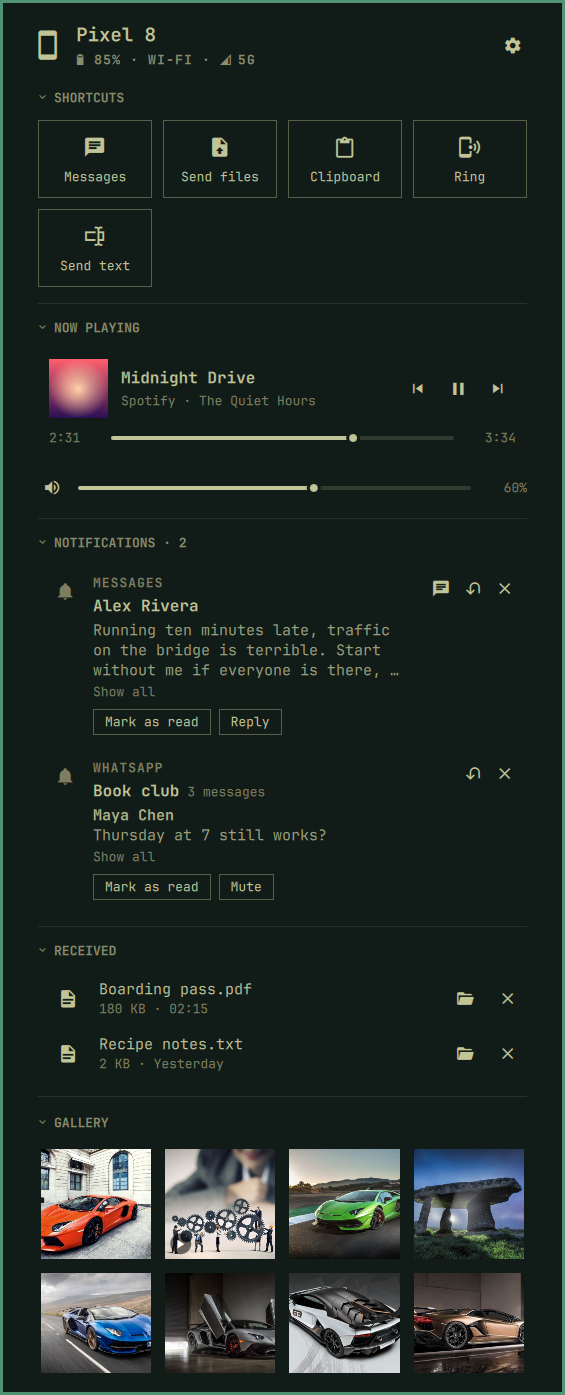
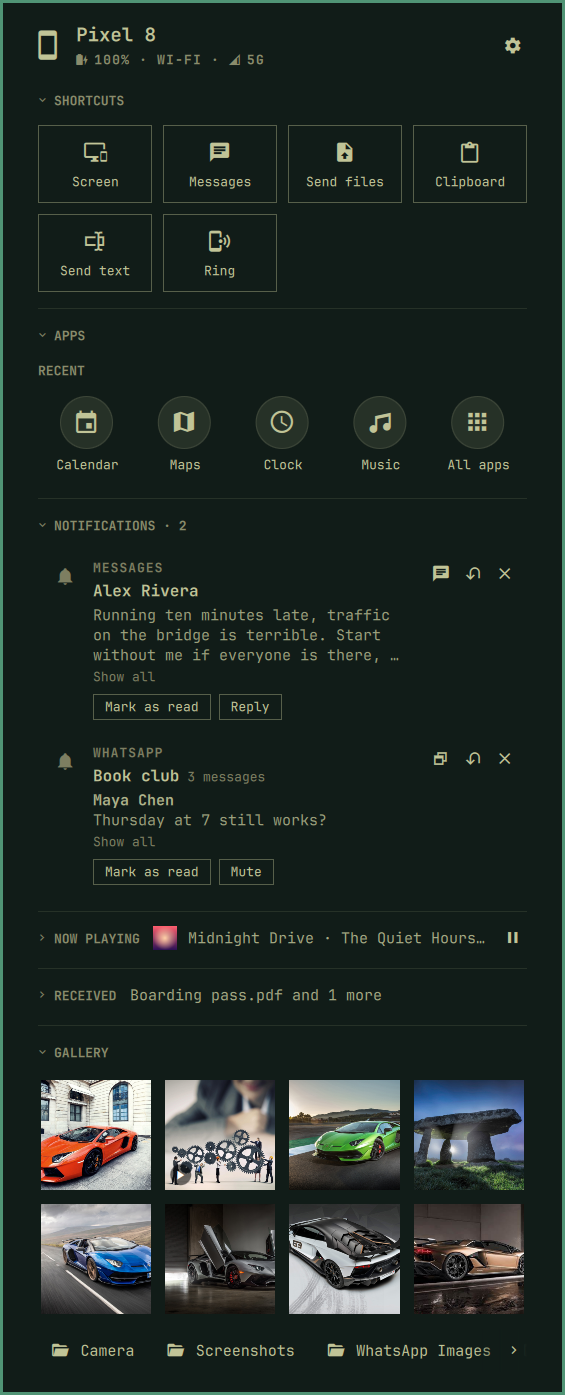
Docs for 0.8: Android, iPhone and iPad named up front; the screen and apps in the README and the preview; one switch per feature and Settings' status in the guide; KDE Connect installed by the panel; Screen and apps only when KDE Connect is lost; How it works on sources, gateways and setup items and

diff --git a/docs/internals/how-it-works.md b/docs/internals/how-it-works.md
@@ -2,12 +2,17 @@
 
 # How it works
 
-KDE Connect is the source of truth: the plugin holds no device state, and
-writes nothing outside its folder but caches in `~/.cache/sceny.devices/`.
+Each source is the truth for its feature: KDE Connect (over D-Bus) for
+notifications, messages, calls, media, files and the rest; scrcpy over adb
+for the screen and apps; KDE Connect's storage over sshfs for the gallery;
+adb for KDE Connect's permissions on the phone. The plugin holds no device
+state, and writes nothing outside its folder but caches in
+`~/.cache/sceny.devices/`. The design is
+[`docs/design/setup.md`](../design/setup.md).
 
 | File | Holds |
 |---|---|
-| `bin/kdeconnect-bridge` | Python over D-Bus (Gio). `watch` prints a JSON snapshot on start, after every KDE Connect signal (debounced 250 ms) and every 30 s. Action verbs (`ring`, `ping`, `clipboard`, `share`, `text`, `url`, `media`, `dismiss`, `reply`, `action`, `dial`) run one call and print one line. `sms` speaks JSON lines. |
+| `bin/kdeconnect-bridge` | Python over D-Bus (Gio). `watch` prints a JSON snapshot on start, after every KDE Connect signal (debounced 250 ms) and every 30 s. Action verbs (`ring`, `ping`, `clipboard`, `share`, `text`, `url`, `media`, `dismiss`, `reply`, `action`, `dial`) run one call and print one line. `sms` speaks JSON lines. Setup and the screen: below. |
 | `Service.qml` | The watcher, the action runner, waiting on the device's answer, the MPRIS players. |
 | `SmsService.qml` | Text messages: threads and the open conversation, search, what was seen here. |
 | `Model.js` | Pure functions from data to what is drawn; tested with `node`. |
@@ -15,11 +20,49 @@ writes nothing outside its folder but caches in `~/.cache/sceny.devices/`.
 | `SettingsView.qml`, `MessagesView.qml`, `SetupChecks.qml` | Settings (This computer and Add a device are among its pages), messages, the steps on a new device (and the app's QR code, from `qrencode`, part of Omarchy). |
 | `PanelField.qml` | Every text field: Esc steps back the same way everywhere. |
 | `CursorGlide.qml`, `CursorStop.qml` | The keyboard cursor, drawn once per page and sliding to where it stops. |
+| `ScreenSetup.qml`, `ScreenTurn.qml` | A device's Screen and apps page; the docked screen turning or folding. |
+| `AppsView.qml`, `AppTile.qml`, `AppPinRow.qml`, `KeyedApps.qml` | All apps, an app's tile, the pinned row, a row's tiles kept as it changes. |
 
 The bridge exists because the shell has no generic D-Bus binding, and shell
 D-Bus clients (`busctl`, `gdbus`) open a connection per call and cannot
 listen. How messages and media work is on
 [their own page](messages-and-media.md).
+
+## Sources, gateways and setup items
+
+`Model.deviceSetup` works out a device's state from the bridge's reports,
+never by hand:
+
+- **Gateways** are how the plugin gets something from a device: KDE
+  Connect, Android's permissions, the storage link, the screen link
+  (Bluetooth is planned).
+- **Setup items** are what a gateway needs, each checked once where it
+  lives (this computer or the device): a KDE Connect plugin on, a
+  permission, a package, the mount, the link itself. Each has its state
+  (ok, missing, broken, off, unavailable, unknown, away) and its remedies.
+- **Features** list the items they need, and the ones their own switch
+  turns off. A feature's state comes from its items, the same way for all.
+
+A problem is a broken item, shown once with the features it affects: in
+Settings' status, the cog's dot and the main page's line. *Fix* and *Fix
+all* run an item's remedies (`device-fix`, or `fix` for this computer);
+one that needs root is described first (`fix <what> --describe`) and runs
+only as shown (`--confirm <hash>`). A device either gateway reaches is
+here: with KDE Connect lost and adb still there, its screen and apps keep
+working and KDE Connect's link is the one problem.
+
+## The bridge's setup and screen commands
+
+| Command | Does |
+|---|---|
+| `doctor` | This computer: KDE Connect, the firewall, the network, the packages. |
+| `features <id> [--adb]` | One device: KDE Connect's plugins, its link, its storage; with adb, its permissions and notification count. |
+| `fix <what> [--describe \| --confirm H]` | This computer: install, firewall, sshfs, screen (root, as shown), start, restart, search. |
+| `device-fix <what> <id> [arg]` | One device: plugin, grant, open-permission, remount, reload, renotify, relisten, reconnect, wake, wireless. |
+| `screen <id>` | The screen link: tools, pair, off, away, unauthorized or ready, and whether it is locked. |
+| `screen-open <id> [package] [label]` | Its screen docked (or `--tiled`), or an app tiled (or `--pop`); waits for an unlock. |
+| `screen-watch`, `screen-pair`, `screen-dock` | The docked screen following turns; pairing by QR code; docking an open window. |
+| `apps <id>`, `icons <id>` | Its apps from the cache (from the device once a day); their icons, decoded in a sandbox. |
 
 ## Motion
 

diff --git a/README.md b/README.md
@@ -1,10 +1,12 @@
 # Devices
 
-Your phone in the [Omarchy](https://omarchy.org) bar, through
-[KDE Connect](https://kdeconnect.kde.org/): notifications, texts, calls,
-media and photos, without picking it up.
+Your Android phone or tablet in the [Omarchy](https://omarchy.org) bar:
+notifications, texts, calls, media and photos through
+[KDE Connect](https://kdeconnect.kde.org/), and its screen and apps in
+windows here through [scrcpy](https://github.com/Genymobile/scrcpy),
+without picking it up. An iPhone or iPad shares files and the clipboard.
 
-![Devices in the Omarchy bar: the pill with its notification bubble, the panel with Now playing, the Gallery and notifications, and the messages view with a conversation (demo data)](preview.png)
+![Devices in the Omarchy bar: the pill with its notification bubble, the phone's screen in a window, the panel with its apps, notifications, Now playing and the Gallery, and the messages view with a conversation (demo data)](preview.png)
 
 - **[Notifications](docs/panel.md)**: reply, dismiss, the app's own buttons.
 - **[Messages](docs/messages.md)**: every conversation and picture; reply
@@ -15,28 +17,30 @@ media and photos, without picking it up.
   it, send files, the clipboard, a link.
 - **[Gallery and files](docs/gallery-and-files.md)**: its newest photos and
   videos, and the files it sent you.
-- **[Screen](docs/screen-and-apps.md)**: the phone's screen in a window
-  here, with your mouse and keyboard (scrcpy, set up from the panel).
-- **[Apps](docs/apps.md)**: its apps, each in a window of its own, with
-  their icons; pin the ones you use, or open one from its notification.
+- **[Screen and apps](docs/screen-and-apps.md)**: its screen, and each of
+  its [apps](docs/apps.md), in a window here, with your mouse and keyboard.
 - **[Several devices](docs/calls-and-devices.md)**: a tab and a chip each.
-- **[Setup](docs/getting-started.md)**: checks with fixes, a QR code for the
-  app, a demo phone to look around first.
+- **[Setup](docs/getting-started.md)**: one switch per feature does every
+  step it can and says the one left to you; [Settings](docs/settings.md)
+  lists what needs you, with *Fix all* and *Fix with AI*.
 
 | Key | Action |
 |---|---|
 | Click / middle-click the pill | Open the panel / messages |
-| `j` `k` · Enter | Move · activate |
+| `j` `k` · Enter | Move · activate (Shift+Enter: an app popped out) |
+| `a` | All apps |
 | `r` · `x` | Reply to · dismiss a notification |
 | `s` · `E` · Esc | Settings · edit the page · back |
 
 ## Privacy and safety
 
 - Everything stays between the computer and your phone, over your own
-  network. Devices sends nothing anywhere else.
-- It never sends a text, rings the phone or plays anything on its own.
+  network. It never sends a text, rings or plays anything on its own.
 - The phone's screen needs Wireless debugging, which you turn on and pair
   yourself; only a computer that scanned your code can use it.
+- A password only after a card shows what it is for; nothing else runs
+  with it. *Fix with AI* opens your own agent, and files an issue only with
+  your yes, never with your data.
 - Pictures from the phone are opened in a sandbox first: what you see is a
   copy made from their pixels, never the phone's file.
 - It keeps only caches, in `~/.cache/sceny.devices/`. Drafts stay in

diff --git a/docs/internals/screenshots.md b/docs/internals/screenshots.md
@@ -10,7 +10,10 @@ before and after.
 ## The README picture
 
 `preview.png` (the marketplace card and the README) is composed by
-`tools/listing-image` from two demo shots of a 2560x1440 screen:
+`tools/listing-image` from two demo shots of a 2560x1440 screen, and a
+made-up phone screen for the screen's window (`tools/phone-screen`, which
+it runs: generated, so nothing in it is from a real device; its clock is
+the shot's):
 
 1. Put the panel's monitor on an empty workspace, and the pointer off the
    panel (`hyprctl dispatch 'hl.dsp.cursor.move({ x = 300, y = 700 })'`).
@@ -20,12 +23,15 @@ before and after.
    repository; no one recognisable, no watermark in the middle, no
    one else's characters).
 3. The pointer off the panel *before* `open` (else the cursor shows).
-   `demo ""`, the Gallery in view (Shortcuts folded, `moveSection`), `open`,
-   then `grim -o <monitor> main.png`; `messages`, `openThread 9001`, then
-   `grim -o <monitor> messages.png`.
+   `demo ""`, `open`, then Shortcuts and Received folded, Apps,
+   notifications, Now playing and the Gallery open (`fold <section>`), then
+   `grim -o <monitor> main.png`. `messages`, `u` if only the unread ones
+   show (the demo keeps your filter), `openThread 9001`, a few seconds,
+   then `grim -o <monitor> messages.png`.
 4. `tools/listing-image main.png messages.png preview.png`. If the panel's
    size changed, measure the cards again (`cardRect`) and move the labels.
-5. Back: `close`, `live`, stop the player, return to your workspace.
+5. Back: `close`, `live`, stop the player (`pkill -f '^python3 tools/demo-player'`:
+   anchored, or it matches the shell running it), return to your workspace.
 
 ## The user guide's pictures
 

diff --git a/docs/panel.md b/docs/panel.md
@@ -4,7 +4,7 @@
 
 Click the pill. Every section folds to one line.
 
-![The panel: shortcuts, Now playing, notifications, received files and the Gallery (demo data)](images/panel.png)
+![The panel: shortcuts, apps, notifications, Now playing and received files folded, and the Gallery (demo data)](images/panel.png)
 
 ## Notifications
 
@@ -19,11 +19,19 @@ The phone's active player: seek, skip, volume. The others are a swipe or
 
 ![Now playing: cover, seek bar and volume (demo data)](images/now-playing.png)
 
+When something needs you, a red line at the top says what and opens
+[Settings](settings.md); ✕ closes it until something new does.
+
 ## Shortcuts
 
-Messages, send files, the clipboard, ring it, send a text or a link.
+Messages, send files, the clipboard, ring it, send a text or a link, its
+[screen](screen-and-apps.md).
 
 ![Shortcuts as tiles (demo data)](images/shortcuts.png)
+
+## Apps
+
+Its pinned and recent [apps](apps.md); one opens in a window here.
 
 ## Make it yours
 
@@ -41,4 +49,5 @@ shows, order and hide sections, pick shortcuts. ✓ keeps it; Esc undoes.
 | Enter | Activate; play/pause on the player |
 | `[` `]` · `,` `.` · `-` `=` | Skip · seek 10 s · volume |
 | `r` · `x` · `e` | Reply · dismiss · show all |
+| `a` · `o` · Shift+Enter | All apps · a notification's app · an app popped out |
 | `s` · `E` · Esc | Settings · edit · back |

diff --git a/docs/internals/development.md b/docs/internals/development.md
@@ -36,6 +36,11 @@ bin/kdeconnect-bridge photos-cached <device>   # the last photo list, at once (t
 "${IPC[@]}" demoTextTo 555-0199 ; "${IPC[@]}" pressEscape   # demo only: Text back to any number; Esc on the panel
 "${IPC[@]}" move 0 1                 # an arrow key (dx dy): the cursor moves, the glide slides; never Enter (slowMotion 10 to watch)
 "${IPC[@]}" rightClickChip <device> ; "${IPC[@]}" edit   # edit the page (and again to end); then editBar <key>, editBarFlag <key>, editMoveBar <key> -1, editSection <key>, editShortcut <key>
+"${IPC[@]}" problems ; "${IPC[@]}" closeBanner   # what needs the user (status, dot, main page's line); close that line
+"${IPC[@]}" settingsRowsInfo ; "${IPC[@]}" pressSetting <index>   # Settings' rows; a row as Enter would
+"${IPC[@]}" switchFeature screen false ; "${IPC[@]}" screenFeatureInfo   # a feature's switch on the device page shown
+"${IPC[@]}" demoScreen ready ; "${IPC[@]}" appsInfo   # demo only: the screen link's state; the Apps section
+"${IPC[@]}" askRoot firewall ; "${IPC[@]}" cancelRoot   # the password card (nothing runs until Continue)
 "${IPC[@]}" slowMotion 10          # stretch every transition
 ```
 

diff --git a/docs/screen-and-apps.md b/docs/screen-and-apps.md
@@ -13,7 +13,7 @@ is set up once per device.
 
 **Settings › Screen and apps** on the device's page walks you through it:
 
-1. **Install** scrcpy and adb (it asks for your password).
+1. **Install** scrcpy and adb (a card says what, then your password).
 2. On the phone, turn on **Developer options**: tap *Build number* seven
    times (*Settings › About phone*).
 3. Turn on **Wireless debugging** in *Developer options*, on this Wi-Fi.
@@ -27,6 +27,9 @@ key, then its full screen key; the page shows your keys.
 
 Android 10 and older: *USB debugging* and a cable instead.
 
+Not wanted? Its switch on the device's page turns it off: no screen, no
+apps, nothing about it to fix.
+
 ## When it stops working
 
 - *Wireless debugging is off*: Android turns it off after a restart or on
@@ -34,6 +37,8 @@ Android 10 and older: *USB debugging* and a cable instead.
   itself. A *Quick settings developer tile* makes that one tap.
 - *Allow USB debugging*: answer the prompt on the phone, with *Always
   allow from this computer*.
+- KDE Connect lost the phone but the screen still opens: see
+  [Away](calls-and-devices.md#away).
 
 ## Privacy
 

diff --git a/docs/getting-started.md b/docs/getting-started.md
@@ -4,8 +4,9 @@
 
 ## Install
 
-You need Omarchy 4, KDE Connect on the computer
-(`sudo pacman -S --needed kdeconnect`), and the phone on the same network.
+You need Omarchy 4 and the phone on the same network. What the computer is
+missing (KDE Connect; scrcpy and adb for the screen; sshfs for the
+gallery), the panel installs on a click, after a card says what.
 
 ```bash
 omarchy plugin add https://github.com/sceny/omarchy-devices.git --enable
@@ -19,8 +20,10 @@ this computer in the app and accept here.
 
 ![Add a device: the steps on the phone and a QR code for the app (demo data)](images/add-device.png)
 
-Once paired, its page shows what it can do; turn on what you want, one
-click each. An iPhone shares files and the clipboard only.
+Once paired, its page shows what it can do: one switch per feature does
+every step it can, here and on the phone, and says the one left to you
+(a permission to allow). An iPhone or iPad shares files and the clipboard
+only.
 
 ## Check this computer
 

diff --git a/docs/calls-and-devices.md b/docs/calls-and-devices.md
@@ -19,14 +19,19 @@ only with news, or never. `1`–`9` switch tabs.
 
 ![Tabs for a phone, a tablet and a laptop (demo data)](images/devices.png)
 
-Each one has its own page in Settings: nickname, icon, its place in the
-bar, its tab, and Unpair.
+Each one has its own page in Settings, with tabs to the next: nickname,
+icon, its place in the bar, its tab, what it can do, and Unpair.
 
-![A tablet's own settings (demo data)](images/device-page.png)
+![A tablet's own page in Settings: the tabs to the others, what it can do, and Unpair (demo data)](images/device-page.png)
 
 ## Away
 
 When a device is not in reach, its page says where it was last seen and
 offers *Reconnect*.
+
+If KDE Connect lost it but its screen still opens, it is not away: the
+panel keeps its screen and apps (*Screen and apps only*), and Settings
+lists KDE Connect with a *Fix* that points KDE Connect at the phone's
+address on the network.
 
 ![An away device with Reconnect (demo data)](images/away.png)

diff --git a/docs/internals/help-for-agents.md b/docs/internals/help-for-agents.md
@@ -61,6 +61,7 @@ $B snapshot                    # everything the panel draws (contains personal d
 | Notifications stopped arriving | `features --adb`: `notifications.here` 0 while `device` is several | `$B device-fix renotify <id>`, then `relisten`, else restart the phone |
 | The gallery is empty or says its storage stopped | `features`: `files` (`mounted`, `error`) | `$B device-fix remount <id>`; `$B fix restart` (KDE Connect restarts, devices reconnect) |
 | *Wireless debugging is off* | `screen`: `off` | on the phone: Developer options › Wireless debugging; with a USB cable: `$B device-fix wireless <id>` |
+| An app opens as an empty window | `screen <id>`: `locked` | unlock the phone; opening it again wakes it and waits |
 | The screen never pairs | `screen`: `pair`; `avahi-browse -rpt _adb-tls-connect._tcp` | pair again from the panel (Screen and apps › Show the code); same Wi-Fi |
 
 A fix that needs root prints its plan first:

diff --git a/docs/troubleshooting.md b/docs/troubleshooting.md
@@ -5,7 +5,7 @@
 | Symptom | Check |
 |---|---|
 | The pill is missing | `omarchy restart shell`; errors are in `journalctl --user -t omarchy-shell`. |
-| The device shows away | *Reconnect* on its page; Settings → This computer; on Samsung, battery use *Unrestricted*. |
+| The device shows away | *Reconnect* on its page; Settings → This computer; on Samsung, battery use *Unrestricted*. *Screen and apps only*: Settings' *Fix* reconnects KDE Connect. |
 | A feature is missing | Its row under *What it can do*, on the device's page: *Turn on* or *Fix*. |
 | No gallery | Its row, or the Gallery's *Try again*: its storage is mounted again, else KDE Connect restarted. |
 | A photo is missing | Gallery shows what the phone's gallery does; a folder marked hidden or `.nomedia` is left out. The first look takes up to a minute. |
